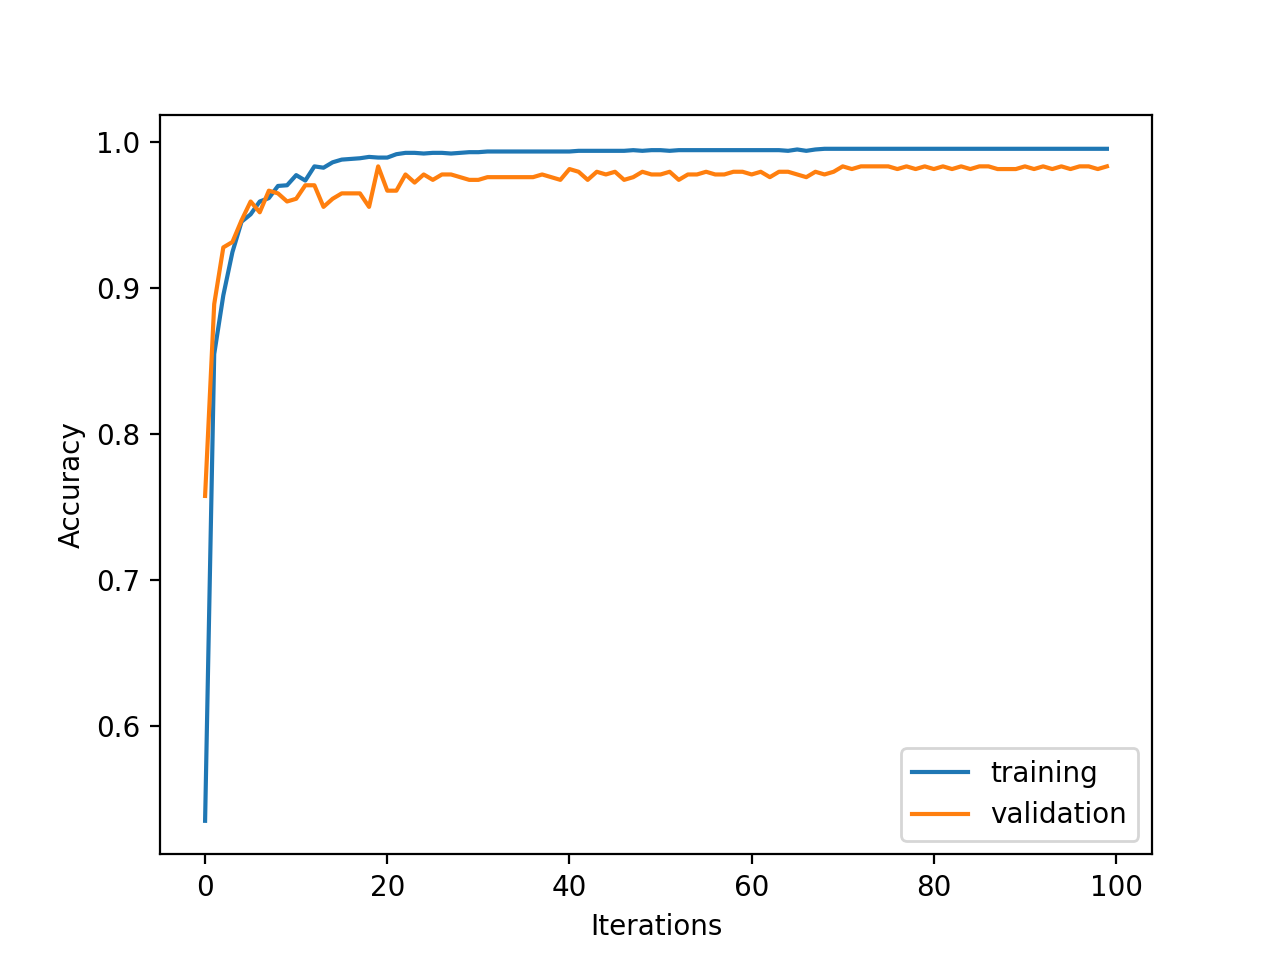
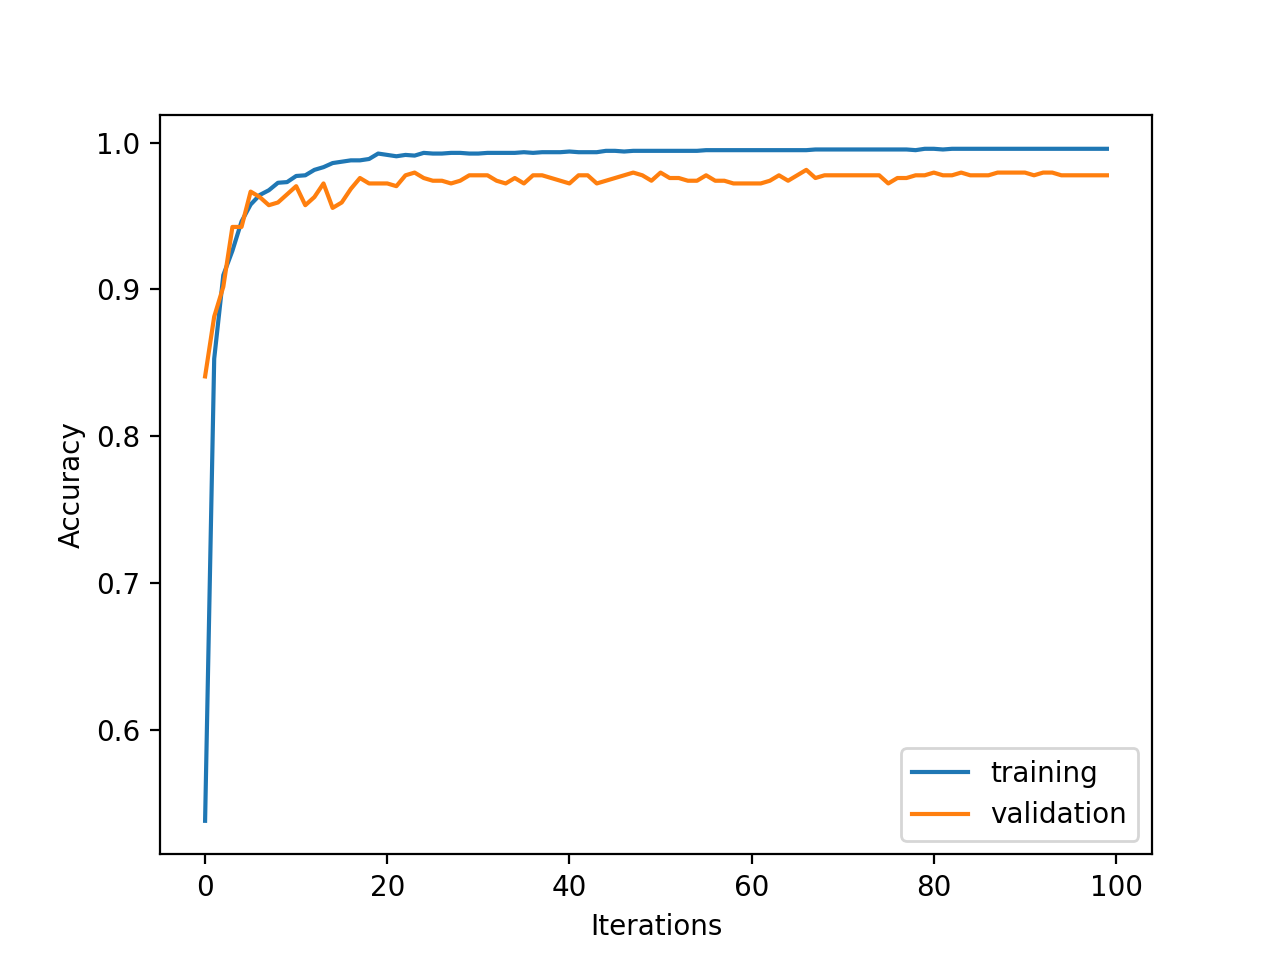
make inference file

diff --git a/ex_9/t_suzuki/inference.py b/ex_9/t_suzuki/inference.py
@@ -60,7 +60,7 @@ def plot_confusion_matrix(predict, ground_truth, title=None, cmap=plt.cm.Blues):
     plt.ylabel("Predicted")
     plt.xlabel("Ground truth")
     plt.show(block=True)
-    fig.savefig(f'./out/confusion_matrix.png')
+    # fig.savefig(f'./out/confusion_matrix.png')
 
 
 
@@ -80,7 +80,7 @@ def write_result(paths, outputs):
         for path, output in zip(paths, outputs):
             f.write("{path},{output}\n".format(path=path, output=output))
 
-# definition MLP
+
 class Net(nn.Module):
     def __init__(self):
         super(Net, self).__init__()
@@ -96,7 +96,6 @@ class Net(nn.Module):
 
 
 def main():
-    # argument setting
     parser = argparse.ArgumentParser()
     parser.add_argument("--path_to_truth", type=str, help='テストデータの正解ファイルCSVのパス')
     parser.add_argument("--batch_size", type=int, default=16, help='training batch size')
@@ -104,139 +103,96 @@ def main():
     parser.add_argument("--epochs", type=int, default=100, help='number of epochs')
     args = parser.parse_args()
 
+    if not os.path.exists('./out'):
+        os.makedirs('./out')
+
     batch_size = args.batch_size
     lr = args.lr
     epochs = args.epochs
- 
-    # check output dir exist
-    if not os.path.exists('./out'):
-        os.makedirs('./out')
     
-    # data loading
     training = pd.read_csv("../training.csv")
     test = pd.read_csv("../test.csv")
 
-    # feature extraction
     X_train = feature_extraction("../" + training["path"].values)
     X_test = feature_extraction("../" + test["path"].values)
     Y_train = training["label"]
 
-    # split data
     X_train, X_valid, Y_train, Y_valid = train_test_split(
     X_train, Y_train,
     test_size=0.2,
     random_state=20200616,
     )
 
-    # standardization
     scaler = StandardScaler()
     scaler.fit(X_train)
     x_train = scaler.transform(X_train)
     x_valid = scaler.transform(X_valid)
 
-    # transform data to tensor
     x_train = torch.from_numpy(x_train).float()
     y_train = torch.from_numpy(np.array(Y_train)).long()
     x_valid = torch.from_numpy(x_valid).float()
     y_valid = torch.from_numpy(np.array(Y_valid)).long()
 
-    # make dataset
     train_dataset = TensorDataset(x_train, y_train)
     valid_dataset = TensorDataset(x_valid, y_valid)
 
-    # make dataloader
     train_loader = DataLoader(train_dataset, batch_size=batch_size, shuffle=True)
     valid_loader = DataLoader(valid_dataset, batch_size=batch_size, shuffle=False)
 
-    # init model
-    device = 'cuda' if torch.cuda.is_available() else 'cpu'
-    net = Net().to(device)
+    for i in range(5):
 
-    # set loss function and optimizer
-    criterion = nn.CrossEntropyLoss()
-    optimizer = optim.Adadelta(net.parameters(), lr=lr, rho=0.96)
+        device = 'cuda' if torch.cuda.is_available() else 'cpu'
+        net = Net().to(device)
 
-    # trainig step
-    train_loss_list, train_acc_list, val_loss_list, val_acc_list = [], [], [], []
+        criterion = nn.CrossEntropyLoss()
+        optimizer = optim.Adadelta(net.parameters(), lr=lr, rho=0.96)
 
-    for epoch in range(epochs):
-        train_loss, train_acc, val_loss, val_acc = 0, 0, 0, 0
+        train_loss_list, train_acc_list, val_loss_list, val_acc_list = [], [], [], []
 
-        # training
-        net.train()
-        for i, (inputs, labels) in enumerate(train_loader):
-            inputs, labels = inputs.to(device), labels.to(device)
-            optimizer.zero_grad()
-            outputs = net(inputs)
-            loss = criterion(outputs, labels)
-            train_loss += loss.item()
-            acc = (outputs.max(1)[1] == labels).sum()
-            train_acc += acc.item()
-            loss.backward()
-            optimizer.step()
-            avg_train_loss = train_loss / len(train_loader.dataset)
-            avg_train_acc = train_acc / len(train_loader.dataset)
+        for epoch in range(epochs):
+            train_loss, train_acc, val_loss, val_acc = 0, 0, 0, 0
 
-        # validation
-        net.eval()
-        with torch.no_grad():
-            for inputs, labels in valid_loader:
+            net.train()
+            for i, (inputs, labels) in enumerate(train_loader):
                 inputs, labels = inputs.to(device), labels.to(device)
+                optimizer.zero_grad()
                 outputs = net(inputs)
                 loss = criterion(outputs, labels)
-                val_loss += loss.item()
+                train_loss += loss.item()
                 acc = (outputs.max(1)[1] == labels).sum()
-                val_acc += acc.item()
-        avg_val_loss = val_loss / len(valid_loader.dataset)
-        avg_val_acc = val_acc / len(valid_loader.dataset)
+                train_acc += acc.item()
+                loss.backward()
+                optimizer.step()
+                avg_train_loss = train_loss / len(train_loader.dataset)
+                avg_train_acc = train_acc / len(train_loader.dataset)
 
-        print ('Epoch [{}/{}], Loss: {loss:.4f}, val_loss: {val_loss:.4f}, val_acc: {val_acc:.4f}'
-                   .format(epoch+1, epochs, i+1, loss=avg_train_loss, val_loss=avg_val_loss, val_acc=avg_val_acc))
+            net.eval()
+            with torch.no_grad():
+                for inputs, labels in valid_loader:
+                    inputs, labels = inputs.to(device), labels.to(device)
+                    outputs = net(inputs)
+                    loss = criterion(outputs, labels)
+                    val_loss += loss.item()
+                    acc = (outputs.max(1)[1] == labels).sum()
+                    val_acc += acc.item()
+            avg_val_loss = val_loss / len(valid_loader.dataset)
+            avg_val_acc = val_acc / len(valid_loader.dataset)
 
-        train_loss_list.append(avg_train_loss)
-        train_acc_list.append(avg_train_acc)
-        val_loss_list.append(avg_val_loss)
-        val_acc_list.append(avg_val_acc)
+            train_loss_list.append(avg_train_loss)
+            train_acc_list.append(avg_train_acc)
+            val_loss_list.append(avg_val_loss)
+            val_acc_list.append(avg_val_acc)
 
-    # plot loss
-    fig = plt.figure()
-    plt.plot(train_loss_list, label='training')
-    plt.plot(val_loss_list, label='validation')
-    plt.xlabel('Iterations')
-    plt.ylabel('Loss')
-    plt.legend()
-    plt.show(block=True)
-    fig.savefig(f'./out/loss_batch{batch_size}_epoch{epochs}_lr{lr}.png')
-    plt.close()
+        x_test = scaler.transform(X_test)
+        x_test = torch.from_numpy(x_test).float()
+        outputs = net(x_test)
+        pred = outputs.max(1)[1]
 
-    # plot acc
-    fig = plt.figure()
-    plt.plot(train_acc_list, label='training')
-    plt.plot(val_acc_list, label='validation')
-    plt.xlabel('Iterations')
-    plt.ylabel('Accuracy')
-    plt.legend()
-    plt.show(block=True)
-    fig.savefig(f'./out/acc_batch{batch_size}_epoch{epochs}_lr{lr}.png')
-    plt.close()
-
-    # predict test data
-    x_test = scaler.transform(X_test)
-    x_test = torch.from_numpy(x_test).float()
-    outputs = net(x_test)
-    pred = outputs.max(1)[1]
-
-    # evaluate test output
-    if args.path_to_truth:
-        test_truth = pd.read_csv(args.path_to_truth)
-        truth_values = test_truth['label'].values
-        test_acc = accuracy_score(truth_values, pred)
-        plot_confusion_matrix(pred, truth_values, f'Accuracy: {test_acc:.2%}')
-        print("Test accuracy: ", test_acc)
-
-    # saev model
-    model_path = f'./model/model_acc_{test_acc:.2%}.pth'
-    torch.save(net.to(device).state_dict(), model_path)
+        if args.path_to_truth:
+            test_truth = pd.read_csv(args.path_to_truth)
+            truth_values = test_truth['label'].values
+            test_acc = accuracy_score(truth_values, pred)
+            print("Test accuracy: ", test_acc)
 
 
 if __name__ == "__main__":
